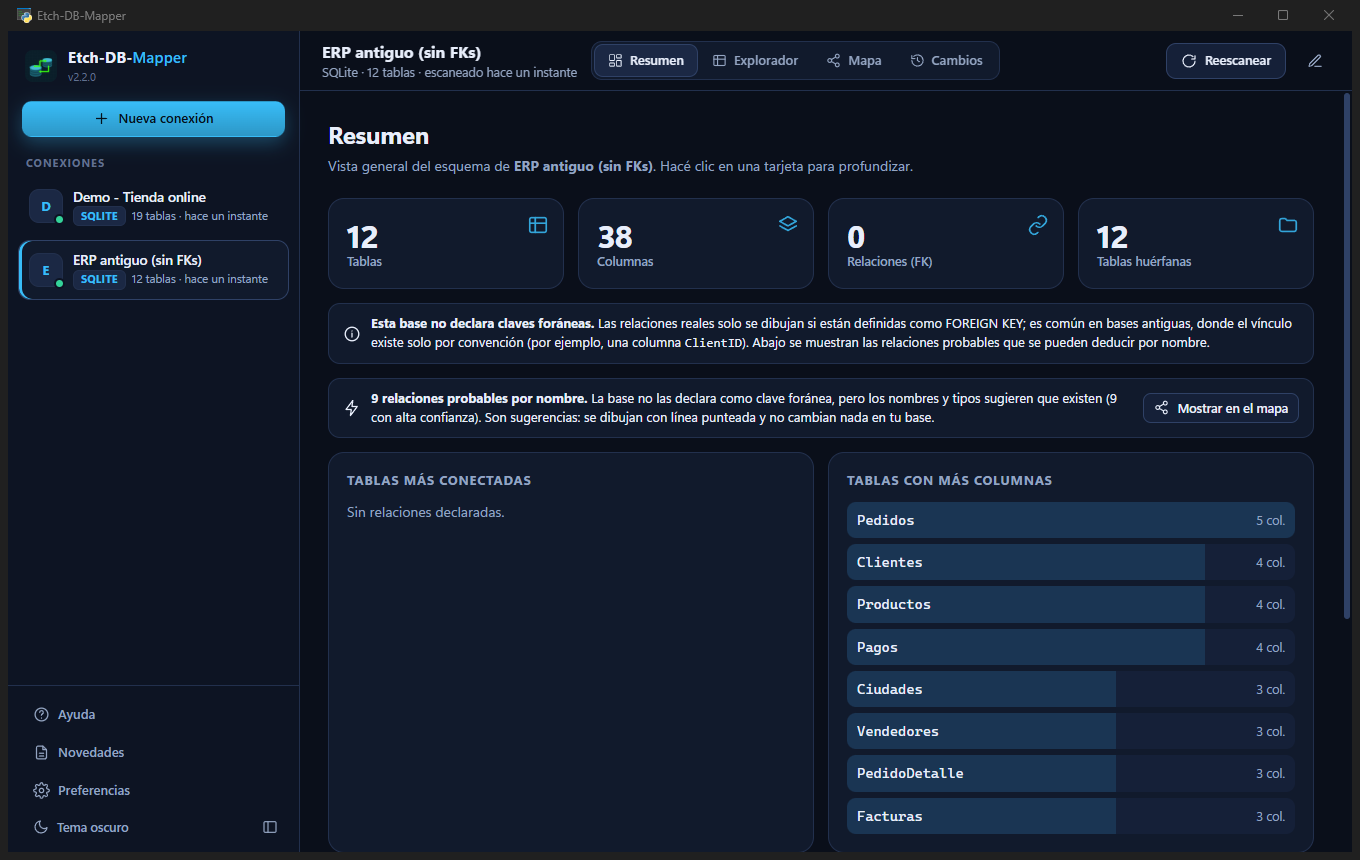
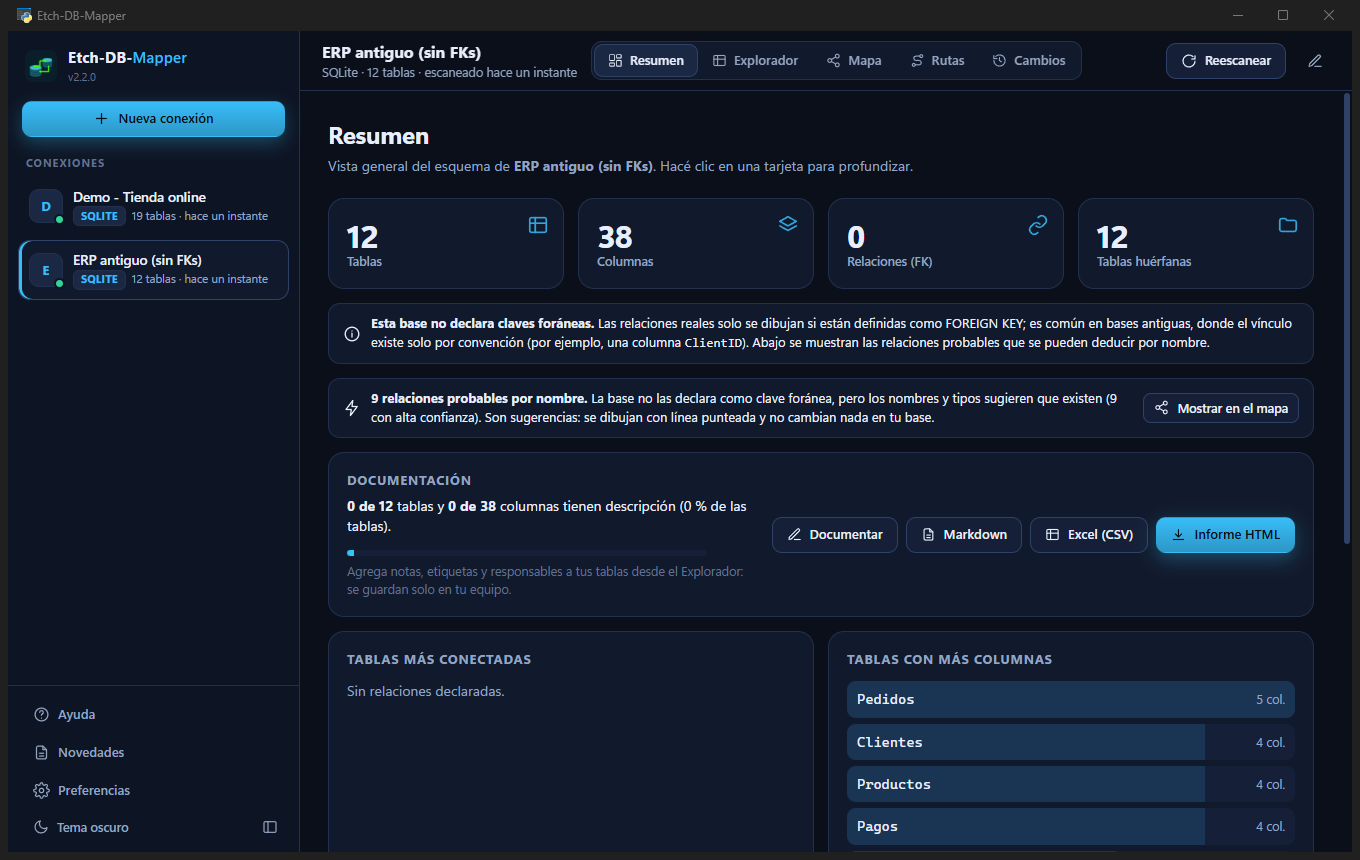
docs: document the 2.3.0 features and refresh screenshots
Adds the data dictionary, routes and HTML report to README, HELP, CHANGELOG,
ARCHITECTURE, BACKLOG and SECURITY, and regenerates docs/images with the real app.

diff --git a/tools/capture_screenshots.py b/tools/capture_screenshots.py
@@ -98,6 +98,23 @@ def js(window, code, wait=0.8):
     return r
 
 
+def export_report(api, alias):
+    """Informe HTML interactivo + captura con Edge sin ventana (si Edge está instalado)."""
+    import subprocess
+    r = api.export_docs(alias, "html")
+    html_path = DATA / "informe.html"
+    html_path.write_text(r["content"], encoding="utf-8")
+    for exe in (r"C:\Program Files (x86)\Microsoft\Edge\Application\msedge.exe", r"C:\Program Files\Microsoft\Edge\Application\msedge.exe"):
+        if os.path.exists(exe):
+            OUT.mkdir(parents=True, exist_ok=True)
+            subprocess.run([exe, "--headless=new", "--disable-gpu", "--hide-scrollbars", f"--screenshot={OUT / '13-informe-html.png'}",
+                            "--window-size=1360,1000", "--virtual-time-budget=6000", html_path.as_uri()], check=False, timeout=60,
+                           stdout=subprocess.DEVNULL, stderr=subprocess.DEVNULL)
+            print("captura 13-informe-html")
+            return
+    print("Edge no encontrado: sin captura del informe")
+
+
 def script(window, api):
     try:
         time.sleep(3.5)
@@ -120,10 +137,27 @@ def script(window, api):
         api.save_connection("ERP antiguo (sin FKs)", "sqlite://" + str(legacy).replace("\\", "/"))
         js(window, "Etch.refreshConnections().then(()=>Etch.scan('ERP antiguo (sin FKs)'))", 4)
 
-        js(window, "Etch.selectConnection(%s); Etch.go('overview')" % json.dumps(demo_alias), 1.2)
+        # --- documentación de ejemplo (notas, etiquetas, responsables) ---
+        notes = {
+            "customers": ("Personas y empresas que compran en la tienda. Un cliente puede tener varias direcciones.", "Ventas", ["core", "clientes"]),
+            "orders": ("Pedidos confirmados. Cada pedido pertenece a un cliente y tiene uno o más artículos.", "Operaciones", ["core", "pedidos"]),
+            "products": ("Catálogo de productos a la venta.", "Catálogo", ["catálogo"]),
+            "payments": ("Cobros asociados a un pedido (tarjeta, transferencia).", "Finanzas", ["finanzas"]),
+        }
+        for table, (note, owner, tags) in notes.items():
+            api.save_annotation(demo_alias, table, None, {"note": note, "owner": owner, "tags": tags})
+        api.save_annotation(demo_alias, "customers", "email", {"note": "Correo único: se usa como usuario de acceso."})
+        api.save_annotation(demo_alias, "orders", "status", {"note": "pendiente, pagado, enviado o cancelado."})
+        # las notas se guardaron por la API (no por la UI): se descarta el esquema en caché para releerlas
+        js(window, "Etch.state.schema = null; Etch.state.schemaAlias = null; Etch.selectConnection(%s); Etch.go('overview')" % json.dumps(demo_alias), 1.6)
         shot("02-resumen")
         js(window, "Etch.go('explorer',{table:'orders'})", 1.2)
         shot("03-explorador")
+        js(window, "Etch.go('explorer',{table:'customers'})", 1.2)
+        shot("11-documentacion")
+        js(window, "Etch.go('paths',{from:'order_items'}); setTimeout(()=>{const t=document.querySelector('[aria-label=\"Tabla de destino\"]'); t.value='customers'; t.dispatchEvent(new Event('change'));}, 400)", 1.8)
+        shot("12-rutas")
+        export_report(api, demo_alias)
         js(window, "Etch.go('map')", 2.5)
         shot("04-mapa")
 

diff --git a/README.md b/README.md
@@ -19,11 +19,13 @@ Detalle completo —incluido lo que el cifrado **no** puede proteger— en [`SEC
 ## Características
 
 - **Asistente de conexión**: elige el tipo de base (PostgreSQL, SQL Server, MySQL, SQLite), completa servidor, usuario y contraseña, **prueba la conexión** y listo. La URI de pydal sigue disponible para quien la prefiere.
-- **Escaneo rápido**: 4 consultas en total, sin importar cuántas tablas tenga la base (una de 171 tablas pasó de 513 consultas a 4), con progreso por fases.
+- **Escaneo rápido**: un número fijo de consultas (4 más una opcional de descripciones), sin importar cuántas tablas tenga la base (una de 171 tablas pasó de 513 consultas a 4), con progreso por fases.
 - **Mapa relacional** (Cytoscape.js): enfoque al pasar el mouse, panel de detalle, colores por grupo de tablas, alcance «relacionadas / todas / vecindad», varios layouts, posiciones que se recuerdan, exportar a PNG.
 - **Relaciones probables por nombre**: muchas bases antiguas no declaran claves foráneas. La app deduce `Pedidos.ClienteID → Clientes` por nombres y tipos y las dibuja con línea punteada, siempre como *sugerencias* y con interruptor.
 - **Cambios entre escaneos**: cada vez que el esquema cambia se guarda una versión; compáralas y ve qué tablas, columnas y relaciones se agregaron, quitaron o modificaron (con resumen copiable en Markdown).
-- **Explorador** con búsqueda por tabla o columna, filtros, insignias PK/FK y copia de DDL aproximado.
+- **Diccionario de datos**: documenta tus tablas y columnas con notas, etiquetas y responsables (se guardan en tu equipo y sobreviven a los reescaneos). La app también lee las **descripciones que la base ya tiene** (`COMMENT ON`, `MS_Description`, `COMMENT=`). Exporta a **Markdown**, **Excel (CSV)** o a un **informe HTML interactivo de un solo archivo**, con el mapa incluido, para compartir sin que el otro instale nada.
+- **Rutas entre tablas**: «¿cómo uno `Pedidos` con `Conductores`?». Encuentra los caminos por claves foráneas (y relaciones probables) y genera el **SQL del JOIN** listo para copiar, para SQL Server, PostgreSQL, MySQL y SQLite. Solo genera texto: no ejecuta nada.
+- **Explorador** con búsqueda por tabla, columna o nota, filtros (incluido *Sin documentar*), insignias PK/FK y copia de DDL aproximado.
 - **Ayuda y Novedades** dentro de la app, pensadas para usuarios nuevos. Tema oscuro / claro / del sistema, atajos de teclado, 100 % offline.
 
 ## Capturas
@@ -32,7 +34,9 @@ Detalle completo —incluido lo que el cifrado **no** puede proteger— en [`SEC
 |---|---|
 | ![Asistente de conexión](docs/images/08-asistente-conexion.png) **Asistente de conexión** | ![Resumen](docs/images/02-resumen.png) **Resumen del esquema** |
 | ![Relaciones probables](docs/images/06-mapa-relaciones-probables.png) **Relaciones probables** (línea punteada) en una base sin claves foráneas | ![Cambios](docs/images/07-cambios.png) **Cambios entre dos escaneos** |
-| ![Explorador](docs/images/03-explorador.png) **Explorador de tablas** | ![Preferencias y seguridad](docs/images/09-preferencias.png) **Preferencias**: contraseñas cifradas y actualizaciones |
+| ![Documentación](docs/images/11-documentacion.png) **Diccionario de datos**: notas, etiquetas y responsable | ![Rutas](docs/images/12-rutas.png) **Rutas entre tablas** con el SQL del JOIN |
+| ![Informe HTML](docs/images/13-informe-html.png) **Informe HTML** interactivo de un solo archivo | ![Preferencias y seguridad](docs/images/09-preferencias.png) **Preferencias**: contraseñas cifradas y actualizaciones |
+| ![Explorador](docs/images/03-explorador.png) **Explorador de tablas** | |
 
 ## Instalación
 
@@ -53,7 +57,7 @@ Opciones: `--debug` (DevTools con clic derecho → Inspeccionar), `--data-dir RU
 
 1. **Nueva conexión** → nombre, tipo de base y servidor / usuario / contraseña. ¿Prefieres la URI? Pestaña *URI avanzada*, por ejemplo `postgres://usuario:clave@host:5432/base`.
 2. **Probar conexión** y **Guardar y escanear**.
-3. Explora **Resumen**, **Explorador**, **Mapa** y **Cambios**.
+3. Explora **Resumen**, **Explorador**, **Mapa**, **Rutas** y **Cambios**; documenta tus tablas y exporta el diccionario cuando quieras.
 
 Más ejemplos de URI por motor, atajos y solución de problemas: [`HELP.md`](HELP.md) (también dentro de la app, en *Ayuda*). ¿Primera vez? Prueba el botón **Probar con una base de ejemplo**.
 
@@ -68,6 +72,8 @@ core/
   secrets.py          Cifrado de contraseñas (Windows DPAPI)
   storage.py          Persistencia JSON atómica, contraseñas cifradas, historial de versiones
   inference.py        Relaciones probables por nombre
+  joins.py            Caminos entre tablas y generador de JOIN
+  docs_export.py      Diccionario de datos: Markdown, CSV e informe HTML
   diff.py             Comparación de dos versiones del esquema
   updates.py          Aviso de versión nueva (opcional)
   logs.py             Registro sin contraseñas

diff --git a/HELP.md b/HELP.md
@@ -61,6 +61,28 @@ Una vista general: cuántas tablas, columnas y relaciones hay, qué tablas está
 - En el detalle de una tabla ves cada columna con su tipo, si admite nulos, y las insignias **PK** (clave primaria) y **FK** (clave foránea). Los nombres de tablas relacionadas son enlaces.
 - Podés **copiar el nombre**, **copiar un DDL aproximado** (`CREATE TABLE …`) o saltar a la tabla en el mapa.
 
+### Documentar tus tablas (diccionario de datos)
+
+En el **Explorador**, cada tabla tiene una tarjeta **Documentación** con una descripción, un **responsable** y **etiquetas**; cada columna tiene su propia descripción (botón ✎). Se guarda al salir del campo, **solo en tu equipo**, y sobrevive a los reescaneos.
+
+- Si la base ya tiene descripciones (`COMMENT ON` en PostgreSQL, `MS_Description` en SQL Server, `COMMENT` en MySQL), las muestra con la marca *base*. Tu nota tiene prioridad sobre la de la base y nunca se escribe en ella.
+- La búsqueda del Explorador también encuentra por nota, etiqueta o responsable, y el filtro **Sin documentar** te lleva a lo que falta.
+- El **Resumen** muestra cuánto está documentado y los botones de exportación.
+
+**Exportar** (Resumen → Documentación):
+
+| Formato | Para qué sirve |
+|---|---|
+| **Markdown** | Pegarlo en un repositorio o wiki. |
+| **Excel (CSV)** | Una fila por columna; se abre directo en Excel. |
+| **Informe HTML** | Un solo archivo con el diccionario y el **mapa interactivo** (con tu disposición del mapa y las relaciones probables). Se abre en cualquier navegador, sin instalar nada: ideal para mandarlo a un colega. |
+
+Los informes contienen **nombres de tablas y columnas, tipos, relaciones y tus notas**. **No** incluyen datos de las tablas, URI ni contraseñas. Revisa el contenido antes de compartirlo.
+
+### Rutas entre tablas
+
+La pestaña **Rutas** responde «¿cómo uno la tabla A con la tabla B?». Elige origen y destino (o usa **Camino hasta…** en el Explorador) y verás los caminos más cortos por claves foráneas, con claves reales primero y, si quieres, también relaciones probables. Cada camino trae el **SQL del JOIN** para copiar y un botón para **resaltarlo en el mapa**. La app solo genera el texto; no ejecuta nada en tu base. Los caminos con relaciones probables llevan una advertencia en el SQL.
+
 ### Cambios
 
 La pestaña **Cambios** compara dos versiones del esquema de la misma conexión. Cada vez que reescaneas y el esquema es distinto, se guarda una versión nueva (se conservan las últimas 8). Verás qué **tablas, columnas y relaciones** se agregaron, quitaron o modificaron (tipo, nulabilidad, clave primaria), con un resumen que puedes copiar en Markdown. Tras un escaneo que encuentra diferencias, la app te avisa. Es ideal para detectar qué cambió en una base entre dos despliegues.
@@ -89,7 +111,7 @@ El mapa dibuja las tablas como nodos y las claves foráneas como flechas (`tabla
 | `Ctrl+N` | Nueva conexión |
 | `Ctrl+K` o `/` | Buscar tablas |
 | `F5` | Reescanear la conexión actual |
-| `Alt+1` … `Alt+4` | Resumen, Explorador, Mapa, Cambios |
+| `Alt+1` … `Alt+5` | Resumen, Explorador, Mapa, Rutas, Cambios |
 | `Ctrl+B` | Mostrar u ocultar la barra lateral |
 | `?` | Abrir esta ayuda |
 | `Esc` | Cerrar diálogos, limpiar la búsqueda |
@@ -134,5 +156,9 @@ El engranaje de la barra lateral abre las **Preferencias**: tema, aviso de versi
 **¿Por qué no veo relaciones en mi base?** Probablemente no declara claves foráneas. Mira el botón **Probables** del mapa y la sección *Relaciones probables* más arriba.
 
 **¿Cómo sé qué cambió en mi base?** Reescanea y abre la pestaña **Cambios**.
+
+**¿Dónde se guardan mis notas?** En tu carpeta de datos (`annotations/`), nunca en la base. Si borras la conexión, se borran con ella.
+
+**¿Cómo comparto el diccionario con alguien que no tiene la app?** Exporta el **Informe HTML** desde el Resumen y mándale el archivo.
 
 **¿Y en Linux o macOS?** El código es multiplataforma y la carpeta de datos sigue las convenciones de cada sistema; el instalador y el empaquetado oficiales por ahora son para Windows. El plan para Linux está en `docs/LINUX_PLAN.md`.

diff --git a/docs/ARCHITECTURE.md b/docs/ARCHITECTURE.md
@@ -15,6 +15,7 @@ Aplicación de escritorio en dos capas que se hablan por un puente de pywebview:
 │   ├─ core/secrets.py   Cifrado de contraseñas (DPAPI en Windows)
 │   ├─ core/storage.py   Store: db_maps.json + settings.json + snapshots/ (atómico, id estable)
 │   ├─ core/inference.py Relaciones probables por nombre · core/diff.py Comparación de versiones
+│   ├─ core/joins.py     Caminos entre tablas + SQL de JOIN · core/docs_export.py Diccionario: MD/CSV/HTML
 │   ├─ core/updates.py   Aviso de versión nueva (opcional) · core/logs.py Registro sin contraseñas      │
 │   ├─ core/scanner.py   run_db_scan(uri, progress) → esquema + meta  (pyDAL)               │
 │   └─ core/demo.py, core/paths.py, core/version.py                                         │
@@ -54,6 +55,9 @@ Cada método público de `Api` es invocable desde JS (`Etch.api.metodo(...)` dev
 | `start_scan(alias)` | Lanza el escaneo en un hilo |
 | `get_schema(alias)` | Esquema normalizado + meta + `inferred` (relaciones probables) + nº de versiones + posiciones del mapa |
 | `list_versions(alias)`, `compare_versions(alias, newer, older)` | Historial de versiones del esquema y su diferencia |
+| `save_annotation(alias, tabla, columna, campos)` | Nota/etiquetas/responsable de una tabla o nota de una columna (se guarda en `annotations/`) |
+| `find_paths(alias, origen, destino, incluir_probables)` | Caminos entre dos tablas + SQL del JOIN |
+| `export_docs(alias, formato)` | Diccionario de datos: `markdown`, `csv` o `html` (informe con mapa) |
 | `security_status()` | Estado del cifrado de contraseñas |
 | `check_updates(force)` | Consulta (opcional) la última versión en GitHub |
 | `open_data_folder()` | Abre la carpeta de datos en el explorador del sistema |
@@ -107,6 +111,13 @@ Cada método público de `Api` es invocable desde JS (`Etch.api.metodo(...)` dev
 ## Historial de versiones y comparación
 
 Cada escaneo exitoso llama a `Store.add_snapshot()`: guarda el esquema en forma compacta (`compact_schema`) en `snapshots/<id>.json` (últimas 8 versiones, deduplicadas por hash; si el esquema no cambió solo se actualiza `last_seen`). `core/diff.py` compara dos versiones (tablas añadidas/quitadas, columnas añadidas/quitadas/modificadas, relaciones) y `scan_finished` incluye `changes` con el resumen respecto de la versión anterior. Las conexiones previas a 2.2 usan su esquema guardado como versión base.
+
+## Documentación, rutas y exportación
+
+- **Descripciones nativas.** `scanner._comments()` hace una consulta de solo lectura por motor (PostgreSQL `pg_description`, SQL Server `sys.extended_properties` con `MS_Description`, MySQL `*_COMMENT`) y el resultado llega a `table.comment` / `column.comment`. Si falla (permisos, motor sin soporte) devuelve `[]` y el escaneo sigue. Verificada la sintaxis de PostgreSQL contra un servidor real; la de SQL Server y MySQL está revisada pero **sin probar contra servidores reales**.
+- **Notas del usuario.** `Store.set_annotation()` guarda en `annotations/<id>.json` (clave = nombre de tabla/columna, con límites de tamaño). `get_schema` las devuelve en `annotations`. La descripción efectiva es *nota del usuario > comentario de la base*.
+- **Rutas.** `core/joins.py` arma el grafo con las FK (y las relaciones probables si se pide), busca los caminos simples más cortos (con un presupuesto de expansiones para grafos densos) y los ordena: primero los que solo usan claves reales. `join_sql()` cita los identificadores según el motor y califica con el esquema.
+- **Exportación.** `core/docs_export.py` genera Markdown, CSV (con BOM para Excel) e informe HTML. El informe incrusta Cytoscape (de `webui/vendor/`), los datos como JSON inerte (`</` escapado) y escapa con `html.escape` todo texto de la base o del usuario; no usa recursos remotos.
 
 ## Relaciones probables
 

diff --git a/docs/BACKLOG.md b/docs/BACKLOG.md
@@ -4,7 +4,7 @@ Mejoras planeadas, sin fecha fija. Mover a "En progreso"/"Hecho" a mano según s
 vaya trabajando.
 
 ## Alta prioridad
-- [ ] **Verificar el scanner contra bases reales con 2.0.0**: la consulta nativa
+- [ ] **Verificar el scanner contra bases reales** (FKs de SQL Server, lectores de MySQL y las consultas de comentarios de SQL Server/MySQL de 2.3.0): la consulta nativa
       de FKs de SQL Server (`sys.foreign_key_columns`) y los lectores de
       PostgreSQL/MySQL están probados con SQLite y revisados a mano, pero hay
       que confirmarlos contra servidores reales (ver `BUGS.md` #19).
@@ -163,3 +163,16 @@ vaya trabajando.
 - [x] Historial de versiones del esquema y pestaña **Cambios** con resumen en Markdown.
 - [x] Aviso de versión nueva opcional y pantalla de **Preferencias**.
 - [x] Capturas en el README generadas con la app real (`tools/capture_screenshots.py`).
+
+### 2.3.0 — documental
+- [x] Diccionario de datos: notas, etiquetas y responsable por tabla; notas por columna; búsqueda y filtro *Sin documentar*.
+- [x] Lectura de descripciones nativas (PostgreSQL, SQL Server, MySQL).
+- [x] Exportar a Markdown, CSV e informe HTML interactivo autocontenido.
+- [x] Pestaña Rutas: camino entre dos tablas y generador de JOIN; resaltado en el mapa.
+
+### Ideas siguientes (documental / navegación)
+- [ ] Exportar a Mermaid / PlantUML / DDL completo.
+- [ ] Informe HTML con tema claro/oscuro seleccionable y filtro por etiqueta.
+- [ ] Importar/exportar las notas (JSON) para compartirlas entre equipos o conexiones.
+- [ ] «Dónde se usa esta columna»: columnas del mismo nombre en otras tablas.
+- [ ] Revisión de calidad: FK sin índice, columnas del mismo nombre con distinto tipo.

diff --git a/CHANGELOG.md b/CHANGELOG.md
@@ -2,6 +2,20 @@
 
 Historial de cambios de Etch-DB-Mapper. El formato sigue [Keep a Changelog](https://keepachangelog.com/es-ES/1.1.0/) y las versiones siguen [SemVer](https://semver.org/lang/es/).
 
+## [2.3.0] - 2026-10-21
+
+Versión «documental»: la app ahora sirve también para documentar y compartir lo que descubre.
+
+### Nuevo
+- **Diccionario de datos**: notas, etiquetas y responsable por tabla y notas por columna, guardados en tu equipo (sobreviven a los reescaneos). Búsqueda por documentación y filtro *Sin documentar*. El Resumen muestra el avance.
+- **Descripciones nativas de la base**: se leen automáticamente (`COMMENT ON` en PostgreSQL, `MS_Description` en SQL Server, `COMMENT` en MySQL) y se muestran junto a tus notas. Es una consulta de solo lectura opcional: si el usuario no tiene permiso, el escaneo sigue igual.
+- **Exportar el diccionario**: Markdown, Excel (CSV) e **informe HTML interactivo de un solo archivo** con el mapa incluido, para compartir sin instalar la app. Todo texto se escapa; no incluye datos de tablas ni credenciales.
+- **Pestaña Rutas** (`Alt+5`): camino entre dos tablas por claves foráneas (y relaciones probables) con el **SQL del JOIN** para SQL Server, PostgreSQL, MySQL y SQLite; se puede resaltar en el mapa.
+- Botón **Camino hasta…** en el Explorador.
+
+### Cambiado
+- El escaneo suma una consulta opcional para las descripciones de la base (5 en total en lugar de 4).
+
 ## [2.2.0] - 2026-10-21
 
 ### Seguridad

diff --git a/SECURITY.md b/SECURITY.md
@@ -34,6 +34,10 @@ Por eso recomendamos, además: usar **cuentas de solo lectura** en las bases, no
 
 Solo el catálogo del motor (`INFORMATION_SCHEMA`, `sys.*`, `pragma_*` de SQLite). Son consultas fijas, sin parámetros ni texto tuyo concatenado en el SQL, y un número constante de ellas (no una por tabla). El código está en `core/scanner.py`. La opción *Probar conexión* ejecuta un `SELECT 1`.
 
+## Notas e informes exportados
+
+Las notas, etiquetas y responsables que escribes se guardan en tu carpeta de datos (`annotations/`), nunca en tu base. Los informes exportables (Markdown, CSV, HTML) incluyen **nombres de tablas y columnas, tipos, relaciones y tus notas**, y **nunca** datos de las tablas, URI ni contraseñas; antes de generar el HTML la app te lo recuerda. Aun así, los nombres de tablas y las notas pueden ser información sensible de tu organización: revísalos antes de compartirlos. El informe HTML es autocontenido (sin recursos remotos) y escapa todo texto, de modo que una nota o un nombre de tabla malicioso no puede ejecutar código al abrirlo.
+
 ## Conexiones de red
 
 1. **Tus bases de datos**, a los servidores que tú configures.
